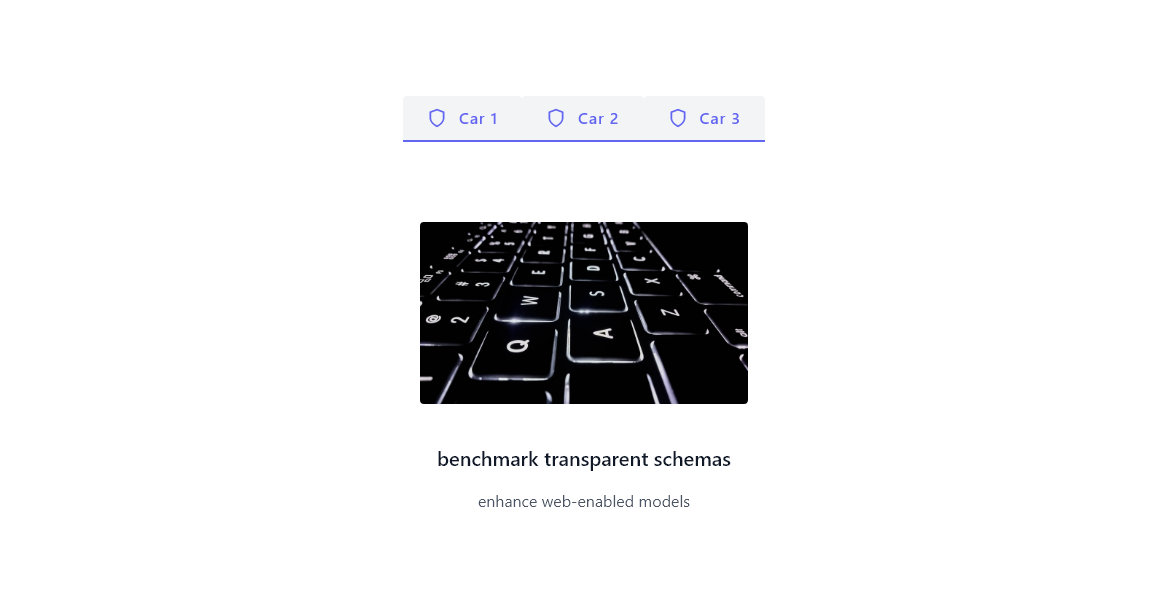
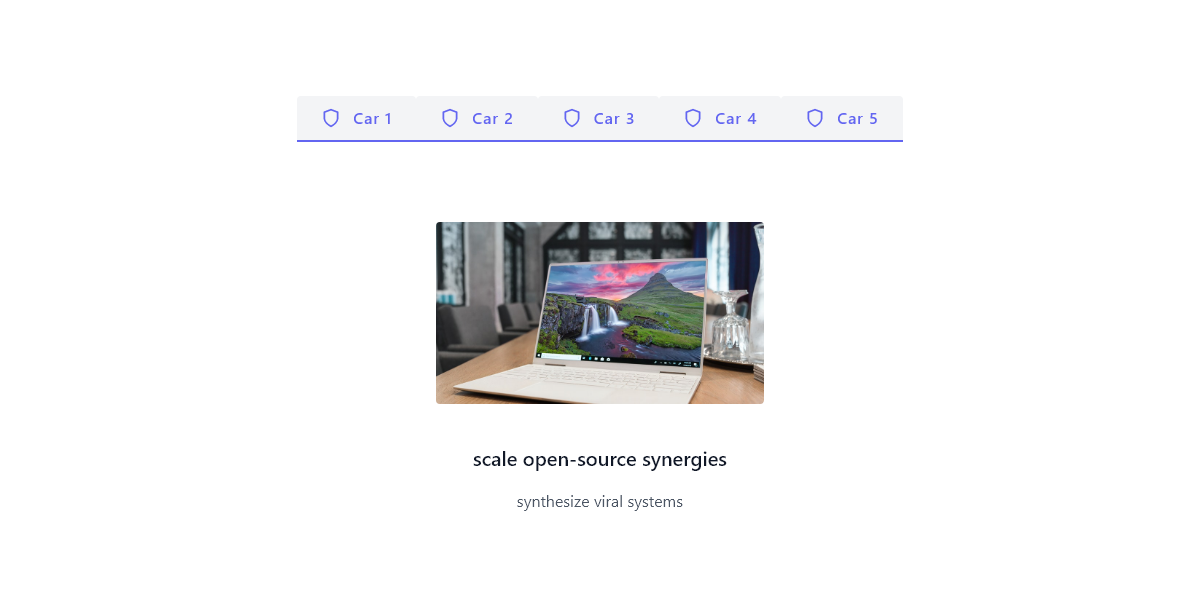
Add Jamie's Car Slider Component

diff --git a/slices/CarSlider/index.js b/slices/CarSlider/index.js
@@ -1,51 +1,84 @@
 import React, { useState } from "react";
-import { RichText } from "prismic-reactjs";
+import Credit from "../../components/Credit";
 
 const MySlice = ({ slice }) => {
-  const [index, setIndex] = useState(0);
   return (
-    <section className="text-gray-600 body-font">
-      <div className="container flex flex-col flex-wrap px-5 py-24 mx-auto">
-        <div className="flex flex-wrap mx-auto mb-20">
-          {slice?.items?.map((item, i) => (
-            <button
-              key={i}
-              onClick={() => setIndex(i)}
-              className="inline-flex items-center justify-center w-1/2 py-3 font-medium leading-none tracking-wider text-indigo-500 bg-gray-100 border-b-2 border-indigo-500 rounded-t sm:px-6 sm:w-auto sm:justify-start title-font"
-            >
-              <svg
-                fill="none"
-                stroke="currentColor"
-                strokeLinecap="round"
-                strokeLinejoin="round"
-                strokeWidth={2}
-                className="w-5 h-5 mr-3"
-                viewBox="0 0 24 24"
-              >
-                <path d="M12 22s8-4 8-10V5l-8-3-8 3v7c0 6 8 10 8 10z" />
-              </svg>
-              Car {i + 1}
-            </button>
-          ))}
-        </div>
+    <section className="relative p-12 overflow-hidden text-white bg-red-800 car-slider font-display lg:py-40 lg:px-0">
+      <div className="relative w-full m-auto md:max-w-6xl h-96">
         {slice?.items?.map((item, i) => (
-          <div className={index === i ? "block" : "hidden"}>
-            <img
-              className="block object-cover object-center w-2/3 mx-auto mb-10 rounded xl:w-1/4 lg:w-1/3 md:w-1/2"
-              alt={item.carName}
-              src={item.image.url}
-            />
-            <div className="flex flex-col w-full text-center">
-              <h1 className="mb-4 text-xl font-medium text-gray-900 title-font">
-                {item.carName}
-              </h1>
-              <p className="mx-auto text-base leading-relaxed lg:w-2/3">
-                {item.tagline}
-              </p>
+          <React.Fragment key={`car-${i}`}>
+            <input type="radio" name="trigger" id={`car-${i}`} checked />
+            {/* Slide */}
+            <div className="absolute w-full h-full">
+              {i > 0 && (
+                <label
+                  htmlFor={`car-${i - 1}`}
+                  tabindex="0"
+                  tabindex="0"
+                  className="absolute left-0 text-6xl transition transform -translate-y-1/2 opacity-50 cursor-pointer focus:ring-2 focus:ring-red-100 hover:opacity-100 top-1/2"
+                >
+                  {"<"}
+                </label>
+              )}
+              <div className="absolute top-0 left-0 transform title -rotate-6">
+                <h2 className="text-5xl uppercase lg:text-7xl">
+                  {item.carName}
+                </h2>
+                <h3 className="relative text-xl text-gray-900 opacity-75 lg:text-2xl left-12">
+                  {item.tagline}
+                </h3>
+              </div>
+              <div className="absolute left-0 right-0 w-3/4 m-auto transform -translate-y-1/2 lg:w-1/3 md:w-1/2 car top-1/2">
+                <img src={item.image.url} alt={item.carName} />
+                <img
+                  class="wheel wheel--back "
+                  src="https://assets.codepen.io/217233/grimwheel.svg"
+                />
+                <img
+                  class="wheel wheel--front"
+                  src="https://assets.codepen.io/217233/grimwheel.svg"
+                />
+                <div class="smoke">
+                  <div></div>
+                  <div></div>
+                  <div></div>
+                  <div></div>
+                  <div></div>
+                  <div></div>
+                  <div></div>
+                  <div></div>
+                  <div></div>
+                  <div></div>
+                </div>
+              </div>
+              <div className="absolute bottom-0 right-0 text-right transform price -rotate-6">
+                <p className="text-2xl text-gray-900 opacity-75 lg:text-4xl">
+                  Just
+                </p>
+                <h3 className="text-4xl lg:text-7xl">${item.price}</h3>
+                <button className="px-6 py-2 mt-2 text-red-900 transition-transform duration-200 transform bg-white rounded-lg hover:scale-110 focus:ring-2 focus:ring-blue-600">
+                  Trade In For Soul
+                </button>
+              </div>
+              {i < slice.items.length - 1 && (
+                <label
+                  htmlFor={`car-${i + 1}`}
+                  tabindex="0"
+                  className="absolute right-0 text-6xl transition transform -translate-y-1/2 opacity-50 cursor-pointer hover:opacity-100 top-1/2 focus:ring-2 focus:ring-red-100"
+                >
+                  {">"}
+                </label>
+              )}
             </div>
-          </div>
+            {/* Slide End */}
+          </React.Fragment>
         ))}
+        <div class="shadow absolute left-0 right-0 transform -translate-y-1/2 m-auto"></div>
       </div>
+      <Credit
+        author="Jamie Coulter"
+        twitter="https://twitter.com/jamiecoulter89"
+      />
     </section>
   );
 };

diff --git a/styles/CarSlider.scss b/styles/CarSlider.scss
@@ -1,0 +1,181 @@
+.car-slider {
+  animation: start 1s 700ms forwards;
+  opacity: 0;
+  background-image: radial-gradient(
+      rgba(255, 255, 255, 0.02) 20%,
+      transparent 20%
+    ),
+    radial-gradient(rgba(255, 255, 255, 0.02) 20%, transparent 20%);
+  background-position: 0 0, 50px 50px;
+  background-size: 100px 100px;
+
+  input {
+    display: none;
+  }
+
+  input:not(:checked) {
+    & + div {
+      .title {
+        h2,
+        h3 {
+          opacity: 0;
+          transition: transform 1000ms cubic-bezier(0.73, -0.005, 0, 1.005),
+            opacity 500ms;
+        }
+        h2 {
+          transform: translateX(-500px);
+        }
+        h3 {
+          transform: translateX(500px);
+        }
+      }
+      label {
+        opacity: 0;
+      }
+      .price {
+        transform: rotate(10deg) translateY(100px);
+        opacity: 0;
+        transition: transform 300ms, opacity 200ms;
+      }
+      .car {
+        animation: carOut 600ms 100ms forwards
+          cubic-bezier(0.92, 0.005, 1, 0.565);
+        .wheel {
+          animation: wheelOut 600ms forwards cubic-bezier(0.92, 0.005, 1, 0.565);
+        }
+      }
+      .smoke {
+        div {
+          opacity: 0;
+          @for $i from 1 through 10 {
+            &:nth-of-type(#{$i}) {
+              left: random(100) - 200px;
+              bottom: random(100) + 50px;
+            }
+          }
+        }
+      }
+      pointer-events: none;
+    }
+  }
+  input:checked {
+    & + div {
+      .title {
+        h2,
+        h3 {
+          opacity: 1;
+          transition: transform 1000ms cubic-bezier(0, 0.855, 0.21, 1),
+            opacity 500ms;
+        }
+      }
+      .price {
+        transition: transform 300ms, opacity 200ms;
+      }
+      .car {
+        animation: carIn 600ms 600ms forwards cubic-bezier(0, 0.63, 0.21, 1);
+        transform: translateY(-50%) translateX(-4200px);
+        .wheel {
+          animation: wheelIn 600ms 600ms forwards cubic-bezier(0, 0.63, 0.21, 1);
+        }
+      }
+    }
+  }
+
+  .wheel {
+    width: 16%;
+    position: absolute;
+
+    &--front {
+      right: 11%;
+      bottom: -21px;
+    }
+
+    &--back {
+      left: 15%;
+      bottom: -21px;
+    }
+  }
+
+  .smoke {
+    position: relative;
+    z-index: -1;
+
+    div {
+      position: absolute;
+      width: 20px;
+      height: 20px;
+      background: white;
+      border-radius: 100%;
+      left: 16%;
+      bottom: 0;
+    }
+
+    @for $i from 1 through 10 {
+      div {
+        &:nth-of-type(#{$i}) {
+          $size: random(30) + 10px;
+          width: $size;
+          height: $size;
+          transition: all
+            700ms
+            random(300) +
+            10ms
+            cubic-bezier(0, 0.695, 0.19, 1.01);
+        }
+      }
+    }
+  }
+
+  .shadow {
+    width: 490px;
+    height: 60px;
+    border-radius: 100%;
+    background: #0000000f;
+    top: calc(50% + 80px);
+    z-index: -1;
+  }
+
+  @keyframes carIn {
+    from {
+      transform: translateY(-50%) translateX(-800px);
+    }
+    to {
+      transform: translateY(-50%) translateX(-0px);
+      opacity: 1;
+    }
+  }
+
+  @keyframes carOut {
+    from {
+      transform: translateY(-50%) translateX(0px);
+    }
+    to {
+      transform: translateY(-50%) translateX(800px);
+      opacity: 0;
+    }
+  }
+
+  @keyframes wheelIn {
+    from {
+      transform: rotate(-1000deg);
+    }
+    to {
+      transform: rotate(0deg);
+    }
+  }
+
+  @keyframes wheelOut {
+    from {
+      transform: rotate(0);
+    }
+    to {
+      transform: rotate(1000deg);
+    }
+  }
+
+  @keyframes start {
+    to {
+      opacity: 1;
+    }
+  }
+}
